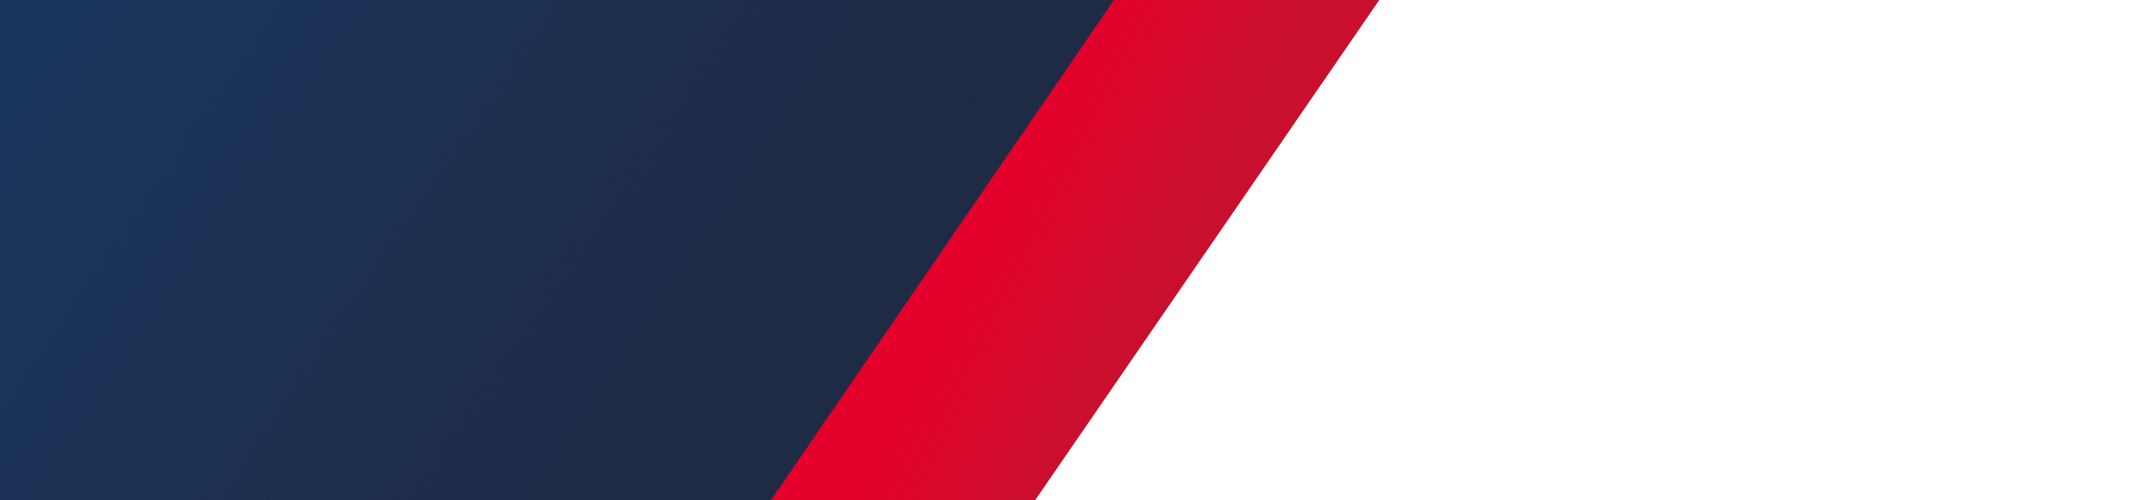
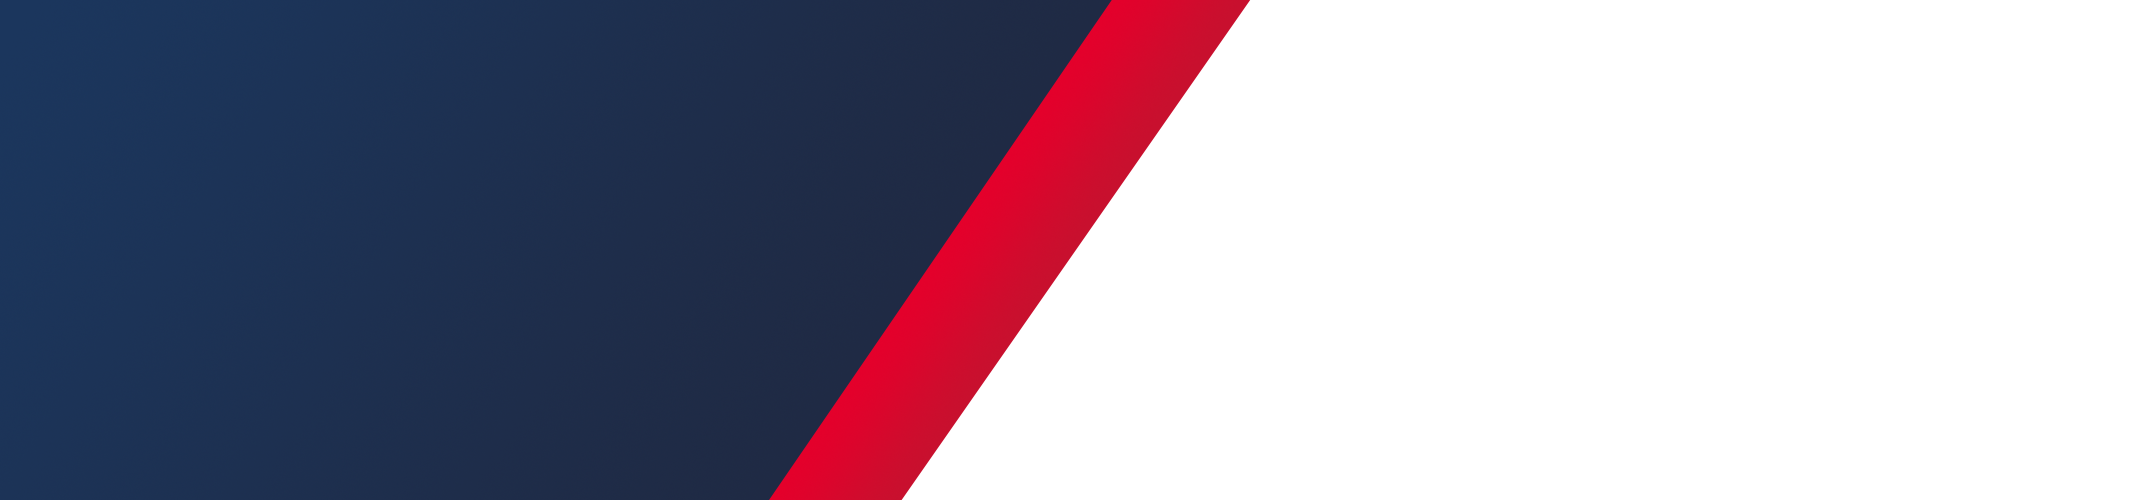
Changed Veco Apps background image

Changed region(s): [[0.4055, 0.0, 0.655, 1.0]]

diff --git a/post1.html b/post1.html
@@ -235,7 +235,7 @@
 										<a class="facebook" href="#" target="_blank"><i class="ico-facebook4"></i></a>
 										<a class="twitter" href="#" target="_blank"><i class="ico-twitter4"></i></a>
 										<a class="googleplus" href="#" target="_blank"><i class="ico-google-plus"></i></a>
-
+										<a class="linkedin" href="#" target="_blank"><i class="ico-linkedin3"></i></a>
 									</div>
 								</div>
 								<!-- End Social Share-->
@@ -364,6 +364,25 @@
 								</span>
 							</div>
 
+							<!-- Comments Form -->
+							<div class="comments-area" id="comments">
+								<div class="comment-respond" id="respond">
+									<form class="comment-form" id="commentform" method="post" action="">
+										<!-- <p class="comment-notes">Your email address will not be published. Required fields are marked <span class="required">*</span></p> -->
+										<input type="text" aria-required="true" size="30" value="" placeholder="Name (required)" name="author" id="author">
+										<input type="text" aria-required="true" size="30" value="" placeholder="Email (required)" name="email" id="email">
+										<input type="text" size="30" value="" placeholder="Company" name="url" id="url">
+										<p class="comment-form-comment">
+											<textarea aria-required="true" rows="8" cols="45" name="comment" placeholder="Comment..." id="comment"></textarea>
+										</p>
+										<p class="form-submit">
+											<input class="send_button" type="submit" value="Post Comment" id="submit-comment" name="submit">
+										</p>
+									</form>
+								</div>
+							</div>
+							<!-- End Comments Form -->
+
 							<!-- Comments Tree -->
 							<ol class="comments_list clearfix">
 								<li class="comment single_comment">
@@ -491,31 +510,6 @@
 							</ol>
 							<!-- End Comments Tree -->
 
-							<!-- Comments Form -->
-							<div class="comments-area" id="comments">
-								<div class="comment-respond" id="respond">
-									<!-- <h3 class="comment-reply-title" id="reply-title">Leave a Reply</h3> -->
-									<div class="small_title">
-										<span class="small_title_con">
-											<span class="s_icon"><i class="ico-pencil32"></i></span>
-											<span class="s_text">Leave a Reply</span>
-										</span>
-									</div>
-									<form class="comment-form" id="commentform" method="post" action="">
-										<!-- <p class="comment-notes">Your email address will not be published. Required fields are marked <span class="required">*</span></p> -->
-										<input type="text" aria-required="true" size="30" value="" placeholder="Name (required)" name="author" id="author">
-										<input type="text" aria-required="true" size="30" value="" placeholder="Email (required)" name="email" id="email">
-										<input type="text" size="30" value="" placeholder="Company" name="url" id="url">
-										<p class="comment-form-comment">
-											<textarea aria-required="true" rows="8" cols="45" name="comment" placeholder="Comment..." id="comment"></textarea>
-										</p>
-										<p class="form-submit">
-											<input class="send_button" type="submit" value="Post Comment" id="submit-comment" name="submit">
-										</p>
-									</form>
-								</div>
-							</div>
-							<!-- End Comments Form -->
 						</div>
 						<!-- End Comments Container -->
 					</div>

diff --git a/css/styles.css b/css/styles.css
@@ -175,6 +175,13 @@ a:hover {
 .mato_title .line i {
     color: #4f758b;
 }
+#navy span {
+    font-size: 12px;
+    color: #000;
+}
+#navy .active_item span, #navy span:hover {
+    color: #4f758b;
+}
 .blog_grid_format i {
     background: #4f758b;
 }
@@ -251,7 +258,8 @@ a.img_popup > span {
     /*background-image: -moz-linear-gradient(150deg, transparent 55%, #C8102E 55%, #e4002b 55%, #e4002b 65%, #e4002b 65%, #1b365d 65%, #1b365d 65%, #1F2A44 100%);*/
     /*background-image: -webkit-linear-gradient(150deg, transparent 55%, #C8102E 55%, #e4002b 55%, #e4002b 65%, #e4002b 65%, #1b365d 65%, #1b365d 65%, #1F2A44 100%);*/
     background: url("../img/diagonalbg2.png");
-    background-size: 100% 100%;
+    background-position: center;
+    background-repeat: no-repeat;
 }
 .img-vecogo {
     margin: 80px 0 10px 0 ;
